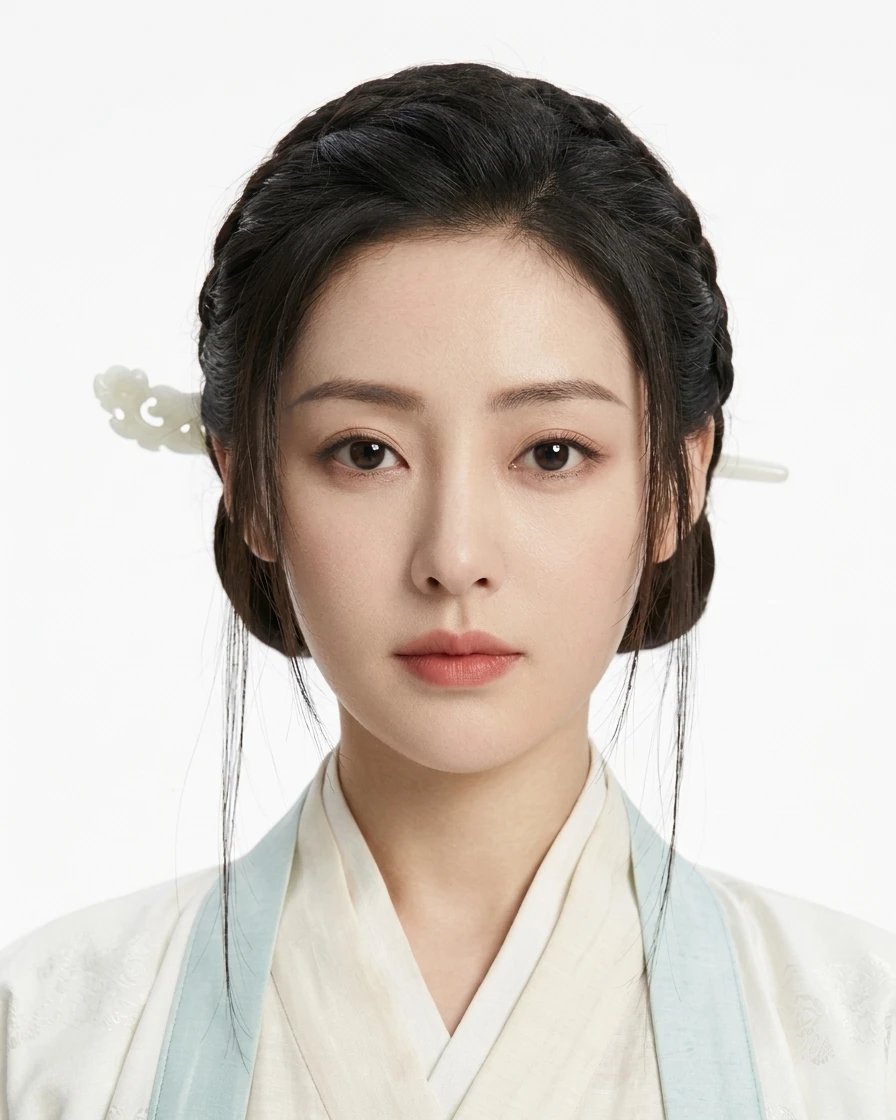
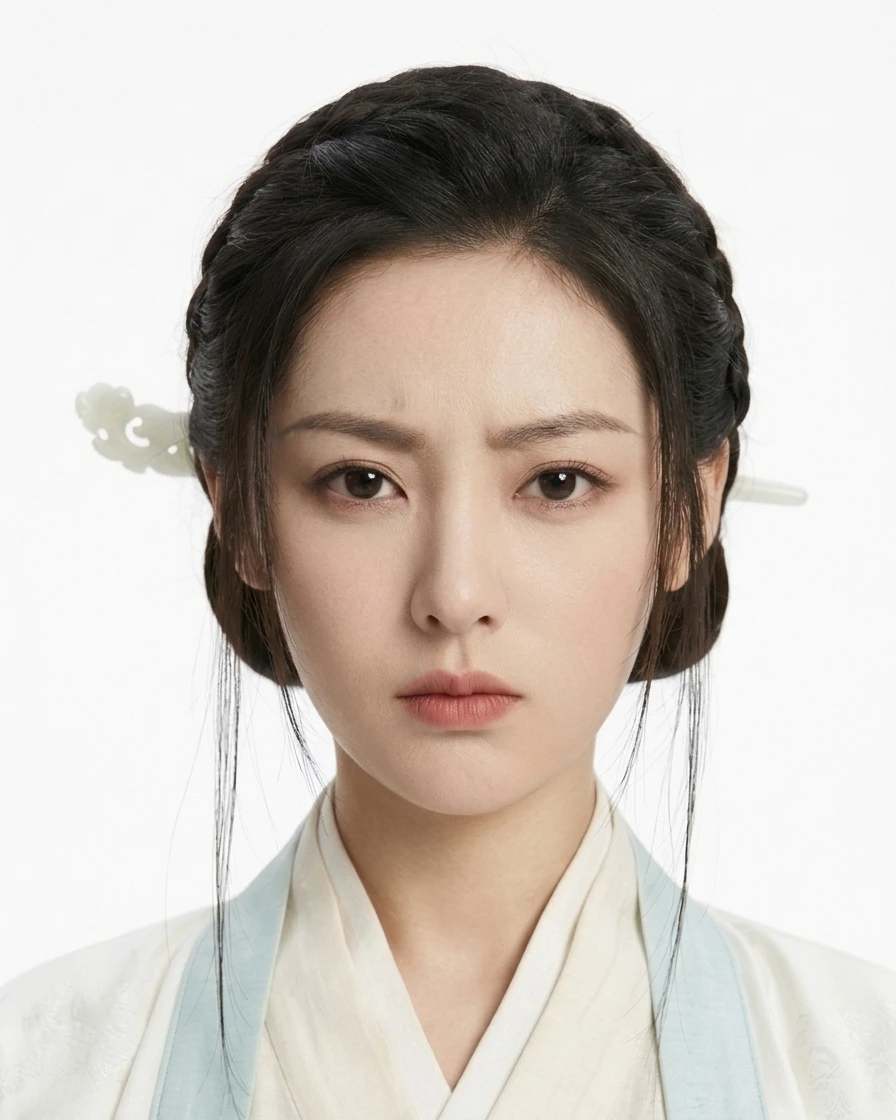
Refine wantangfeng/v2 lead micro-expressions (Wen v4, Jiang v4/v3)

Changed region(s): [[0.0625, 0.0312, 0.9062, 1.0], [0.0625, 0.875, 0.1875, 1.0], [0.0, 0.875, 0.0312, 1.0]]

diff --git a/wantangfeng/v2/index.html b/wantangfeng/v2/index.html
@@ -161,7 +161,7 @@ footer{margin-top:36px;padding-top:16px;border-top:1px solid var(--rule-2);color
       <div class="char-title">
         <h2>江晚棠</h2>
         <span class="role-tag">女主 · 20 岁</span>
-        <span class="sub">清冷绝美 · 破碎感大女主</span>
+        <span class="sub">外表奶凶眼神凌厉 · 内心柔软天真毫无城府</span>
       </div>
       <div class="seg" role="group" aria-label="江晚棠对比视图切换">
         <button type="button" class="on" data-set-mode="side">并排对比视图</button>
@@ -171,14 +171,14 @@ footer{margin-top:36px;padding-top:16px;border-top:1px solid var(--rule-2);color
 
     <div class="notes">
       <div class="note-box">
-        <div class="k">骨相与眼神</div>
+        <div class="k">微表情与眼神</div>
         <div class="old">旧版：素颜偏憔悴、面部留白偏散</div>
-        <div class="new">新版：高骨相鹅蛋脸、澄澈凤杏眼配清冷戒备感</div>
+        <div class="new">新版：高骨相鹅蛋脸，柳叶眉微蹙眼神锐利显奶凶，眼底清澈纯净无城府</div>
       </div>
       <div class="note-box">
         <div class="k">妆造质感</div>
         <div class="old">旧版：无妆证件照感、气色略暗淡</div>
-        <div class="new">新版：清透瓷肌 + 克制古装淡妆、纤长上睫与浅玫瑰花瓣唇</div>
+        <div class="new">新版：清透瓷肌 + 克制古装淡妆、浅玫瑰花瓣唇轻抿显倔强柔软反差</div>
       </div>
       <div class="note-box">
         <div class="k">发型与发饰</div>
@@ -202,12 +202,12 @@ footer{margin-top:36px;padding-top:16px;border-top:1px solid var(--rule-2);color
         <div class="img-foot"><span>face-front.v1</span><span>896×1120</span></div>
       </article>
       <article class="img-card is-new">
-        <div class="img-head"><span>正脸大头照 · 新版</span><span class="badge new">v2 重构</span></div>
-        <div class="img-wrap" data-zoom="./assets/jiang-new-face.webp" data-cap="江晚棠 · 新版正脸大头照 (v2 · 896×1120 · 派生自 v3 锚点)">
+        <div class="img-head"><span>正脸大头照 · 新版</span><span class="badge new">v3 奶凶微表情</span></div>
+        <div class="img-wrap" data-zoom="./assets/jiang-new-face.webp" data-cap="江晚棠 · 新版正脸大头照 (v3 · 896×1120 · 奶凶凌厉且眼底清澈)">
           <img src="./assets/jiang-new-face.webp" alt="江晚棠 新版大头照">
           <span class="hint">点击放大</span>
         </div>
-        <div class="img-foot"><span>face-front.v2</span><span>896×1120</span></div>
+        <div class="img-foot"><span>face-front.v3</span><span>896×1120</span></div>
       </article>
       <article class="img-card">
         <div class="img-head"><span>正面全身锚点 · 旧版</span><span class="badge old">v2</span></div>
@@ -218,29 +218,29 @@ footer{margin-top:36px;padding-top:16px;border-top:1px solid var(--rule-2);color
         <div class="img-foot"><span>front-full.v2</span><span>848×1264</span></div>
       </article>
       <article class="img-card is-new">
-        <div class="img-head"><span>正面全身锚点 · 新版</span><span class="badge new">v3 锚点</span></div>
-        <div class="img-wrap" data-zoom="./assets/jiang-new-full.webp" data-cap="江晚棠 · 新版正面全身锚点 (v3 · 848×1264 · 待确认)">
+        <div class="img-head"><span>正面全身锚点 · 新版</span><span class="badge new">v4 锚点</span></div>
+        <div class="img-wrap" data-zoom="./assets/jiang-new-full.webp" data-cap="江晚棠 · 新版正面全身锚点 (v4 · 848×1264 · 待确认)">
           <img src="./assets/jiang-new-full.webp" alt="江晚棠 新版正面全身">
           <span class="hint">点击放大</span>
         </div>
-        <div class="img-foot"><span>front-full.v3</span><span>848×1264</span></div>
+        <div class="img-foot"><span>front-full.v4</span><span>848×1264</span></div>
       </article>
     </div>
 
     <div class="wipe-panel">
       <div class="wipe-card">
         <div class="wipe-hd">
-          <strong>正脸大头照对比（旧 v1 / 新 v2）</strong>
+          <strong>正脸大头照对比（旧 v1 / 新 v3）</strong>
           <div class="wipe-actions">
             <button type="button" class="mini-zoom" data-zoom="./assets/jiang-old-face.webp" data-cap="江晚棠 · 旧版正脸大头照 (v1)">看旧图</button>
-            <button type="button" class="mini-zoom" data-zoom="./assets/jiang-new-face.webp" data-cap="江晚棠 · 新版正脸大头照 (v2)">放大新图</button>
+            <button type="button" class="mini-zoom" data-zoom="./assets/jiang-new-face.webp" data-cap="江晚棠 · 新版正脸大头照 (v3)">放大新图</button>
           </div>
         </div>
         <div class="wipe-stage r45">
           <img src="./assets/jiang-new-face.webp" alt="江晚棠 新版大头照">
           <img class="wipe-over" src="./assets/jiang-old-face.webp" alt="江晚棠 旧版大头照">
           <span class="wipe-tag left">旧版 v1</span>
-          <span class="wipe-tag right">新版 v2</span>
+          <span class="wipe-tag right">新版 v3</span>
           <div class="wipe-line"><div class="wipe-knob">↔</div></div>
           <input class="wipe-range" type="range" min="0" max="100" value="50" aria-label="江晚棠大头照对比滑块">
         </div>
@@ -249,17 +249,17 @@ footer{margin-top:36px;padding-top:16px;border-top:1px solid var(--rule-2);color
 
       <div class="wipe-card">
         <div class="wipe-hd">
-          <strong>正面全身锚点对比（旧 v2 / 新 v3）</strong>
+          <strong>正面全身锚点对比（旧 v2 / 新 v4）</strong>
           <div class="wipe-actions">
             <button type="button" class="mini-zoom" data-zoom="./assets/jiang-old-full.webp" data-cap="江晚棠 · 旧版正面全身 (v2)">看旧图</button>
-            <button type="button" class="mini-zoom" data-zoom="./assets/jiang-new-full.webp" data-cap="江晚棠 · 新版正面全身锚点 (v3)">放大新图</button>
+            <button type="button" class="mini-zoom" data-zoom="./assets/jiang-new-full.webp" data-cap="江晚棠 · 新版正面全身锚点 (v4)">放大新图</button>
           </div>
         </div>
         <div class="wipe-stage r23">
           <img src="./assets/jiang-new-full.webp" alt="江晚棠 新版正面全身">
           <img class="wipe-over" src="./assets/jiang-old-full.webp" alt="江晚棠 旧版正面全身">
           <span class="wipe-tag left">旧版 v2</span>
-          <span class="wipe-tag right">新版 v3</span>
+          <span class="wipe-tag right">新版 v4</span>
           <div class="wipe-line"><div class="wipe-knob">↔</div></div>
           <input class="wipe-range" type="range" min="0" max="100" value="50" aria-label="江晚棠全身对比滑块">
         </div>
@@ -274,7 +274,7 @@ footer{margin-top:36px;padding-top:16px;border-top:1px solid var(--rule-2);color
       <div class="char-title">
         <h2>温如风</h2>
         <span class="role-tag">男主 · 26 岁</span>
-        <span class="sub">清冷腹黑 · 贵公子中间人</span>
+        <span class="sub">面带笑意 · 内心坚韧城府极深</span>
       </div>
       <div class="seg" role="group" aria-label="温如风对比视图切换">
         <button type="button" class="on" data-set-mode="side">并排对比视图</button>
@@ -284,9 +284,9 @@ footer{margin-top:36px;padding-top:16px;border-top:1px solid var(--rule-2);color
 
     <div class="notes">
       <div class="note-box">
-        <div class="k">骨相与气场</div>
+        <div class="k">微表情与城府</div>
         <div class="old">旧版：五官偏温和路人感、轮廓不够锋利</div>
-        <div class="new">新版：雕塑感下颌线、剑眉深邃丹凤眼、冷白疏离算计感</div>
+        <div class="new">新版：嘴角常含从容浅笑却笑意不达眼底，深邃丹凤眼透出坚韧与极深城府</div>
       </div>
       <div class="note-box">
         <div class="k">去帽改冠</div>
@@ -315,12 +315,12 @@ footer{margin-top:36px;padding-top:16px;border-top:1px solid var(--rule-2);color
         <div class="img-foot"><span>face-front.v1</span><span>896×1120</span></div>
       </article>
       <article class="img-card is-new">
-        <div class="img-head"><span>正脸大头照 · 新版</span><span class="badge new">v3 利落收鬓</span></div>
-        <div class="img-wrap" data-zoom="./assets/wen-new-face.webp" data-cap="温如风 · 新版正脸大头照 (v3 · 896×1120 · 两鬓已收起)">
+        <div class="img-head"><span>正脸大头照 · 新版</span><span class="badge new">v4 笑面城府</span></div>
+        <div class="img-wrap" data-zoom="./assets/wen-new-face.webp" data-cap="温如风 · 新版正脸大头照 (v4 · 896×1120 · 常含浅笑且眼底城府深)">
           <img src="./assets/wen-new-face.webp" alt="温如风 新版大头照">
           <span class="hint">点击放大</span>
         </div>
-        <div class="img-foot"><span>face-front.v3</span><span>896×1120</span></div>
+        <div class="img-foot"><span>face-front.v4</span><span>896×1120</span></div>
       </article>
       <article class="img-card">
         <div class="img-head"><span>正面全身锚点 · 旧版</span><span class="badge old">v1</span></div>
@@ -331,29 +331,29 @@ footer{margin-top:36px;padding-top:16px;border-top:1px solid var(--rule-2);color
         <div class="img-foot"><span>front-full.v1</span><span>848×1264</span></div>
       </article>
       <article class="img-card is-new">
-        <div class="img-head"><span>正面全身锚点 · 新版</span><span class="badge new">v3 锚点</span></div>
-        <div class="img-wrap" data-zoom="./assets/wen-new-full.webp" data-cap="温如风 · 新版正面全身锚点 (v3 · 848×1264 · 两鬓已收起)">
+        <div class="img-head"><span>正面全身锚点 · 新版</span><span class="badge new">v4 锚点</span></div>
+        <div class="img-wrap" data-zoom="./assets/wen-new-full.webp" data-cap="温如风 · 新版正面全身锚点 (v4 · 848×1264 · 待确认)">
           <img src="./assets/wen-new-full.webp" alt="温如风 新版正面全身">
           <span class="hint">点击放大</span>
         </div>
-        <div class="img-foot"><span>front-full.v3</span><span>848×1264</span></div>
+        <div class="img-foot"><span>front-full.v4</span><span>848×1264</span></div>
       </article>
     </div>
 
     <div class="wipe-panel">
       <div class="wipe-card">
         <div class="wipe-hd">
-          <strong>正脸大头照对比（旧 v1 / 新 v3）</strong>
+          <strong>正脸大头照对比（旧 v1 / 新 v4）</strong>
           <div class="wipe-actions">
             <button type="button" class="mini-zoom" data-zoom="./assets/wen-old-face.webp" data-cap="温如风 · 旧版正脸大头照 (v1)">看旧图</button>
-            <button type="button" class="mini-zoom" data-zoom="./assets/wen-new-face.webp" data-cap="温如风 · 新版正脸大头照 (v3)">放大新图</button>
+            <button type="button" class="mini-zoom" data-zoom="./assets/wen-new-face.webp" data-cap="温如风 · 新版正脸大头照 (v4)">放大新图</button>
           </div>
         </div>
         <div class="wipe-stage r45">
           <img src="./assets/wen-new-face.webp" alt="温如风 新版大头照">
           <img class="wipe-over" src="./assets/wen-old-face.webp" alt="温如风 旧版大头照">
           <span class="wipe-tag left">旧版 v1</span>
-          <span class="wipe-tag right">新版 v3</span>
+          <span class="wipe-tag right">新版 v4</span>
           <div class="wipe-line"><div class="wipe-knob">↔</div></div>
           <input class="wipe-range" type="range" min="0" max="100" value="50" aria-label="温如风大头照对比滑块">
         </div>
@@ -362,17 +362,17 @@ footer{margin-top:36px;padding-top:16px;border-top:1px solid var(--rule-2);color
 
       <div class="wipe-card">
         <div class="wipe-hd">
-          <strong>正面全身锚点对比（旧 v1 / 新 v3）</strong>
+          <strong>正面全身锚点对比（旧 v1 / 新 v4）</strong>
           <div class="wipe-actions">
             <button type="button" class="mini-zoom" data-zoom="./assets/wen-old-full.webp" data-cap="温如风 · 旧版正面全身 (v1)">看旧图</button>
-            <button type="button" class="mini-zoom" data-zoom="./assets/wen-new-full.webp" data-cap="温如风 · 新版正面全身锚点 (v3)">放大新图</button>
+            <button type="button" class="mini-zoom" data-zoom="./assets/wen-new-full.webp" data-cap="温如风 · 新版正面全身锚点 (v4)">放大新图</button>
           </div>
         </div>
         <div class="wipe-stage r23">
           <img src="./assets/wen-new-full.webp" alt="温如风 新版正面全身">
           <img class="wipe-over" src="./assets/wen-old-full.webp" alt="温如风 旧版正面全身">
           <span class="wipe-tag left">旧版 v1</span>
-          <span class="wipe-tag right">新版 v3</span>
+          <span class="wipe-tag right">新版 v4</span>
           <div class="wipe-line"><div class="wipe-knob">↔</div></div>
           <input class="wipe-range" type="range" min="0" max="100" value="50" aria-label="温如风全身对比滑块">
         </div>
@@ -400,33 +400,33 @@ footer{margin-top:36px;padding-top:16px;border-top:1px solid var(--rule-2);color
           <tr>
             <td>江晚棠</td>
             <td>正面全身（锚点）</td>
-            <td class="mono">front-full.v3</td>
+            <td class="mono">front-full.v4</td>
             <td class="mono">848×1264 (2:3)</td>
             <td class="ok">✓ 全部通过（四边纯白 100%）</td>
-            <td class="ok">✓ 已确认（可派生侧面/背面）</td>
+            <td class="wait">待确认（奶凶微表情 · confirm 后派生三视图）</td>
           </tr>
           <tr>
             <td>江晚棠</td>
             <td>正脸大头照</td>
-            <td class="mono">face-front.v2</td>
+            <td class="mono">face-front.v3</td>
             <td class="mono">896×1120 (4:5)</td>
-            <td class="ok">✓ 全部通过（参考 front-full/v3）</td>
+            <td class="ok">✓ 全部通过（参考 front-full/v4）</td>
             <td class="ok">已注册有效</td>
           </tr>
           <tr>
             <td>温如风</td>
             <td>正面全身（锚点）</td>
-            <td class="mono">front-full.v3</td>
+            <td class="mono">front-full.v4</td>
             <td class="mono">848×1264 (2:3)</td>
             <td class="ok">✓ 全部通过（四边纯白 100%）</td>
-            <td class="wait">待确认（两鬓收起 · confirm 后派生三视图）</td>
+            <td class="wait">待确认（笑面城府微表情 · confirm 后派生三视图）</td>
           </tr>
           <tr>
             <td>温如风</td>
             <td>正脸大头照</td>
-            <td class="mono">face-front.v3</td>
+            <td class="mono">face-front.v4</td>
             <td class="mono">896×1120 (4:5)</td>
-            <td class="ok">✓ 全部通过（参考 front-full/v3）</td>
+            <td class="ok">✓ 全部通过（参考 front-full/v4）</td>
             <td class="ok">已注册有效</td>
           </tr>
         </tbody>
